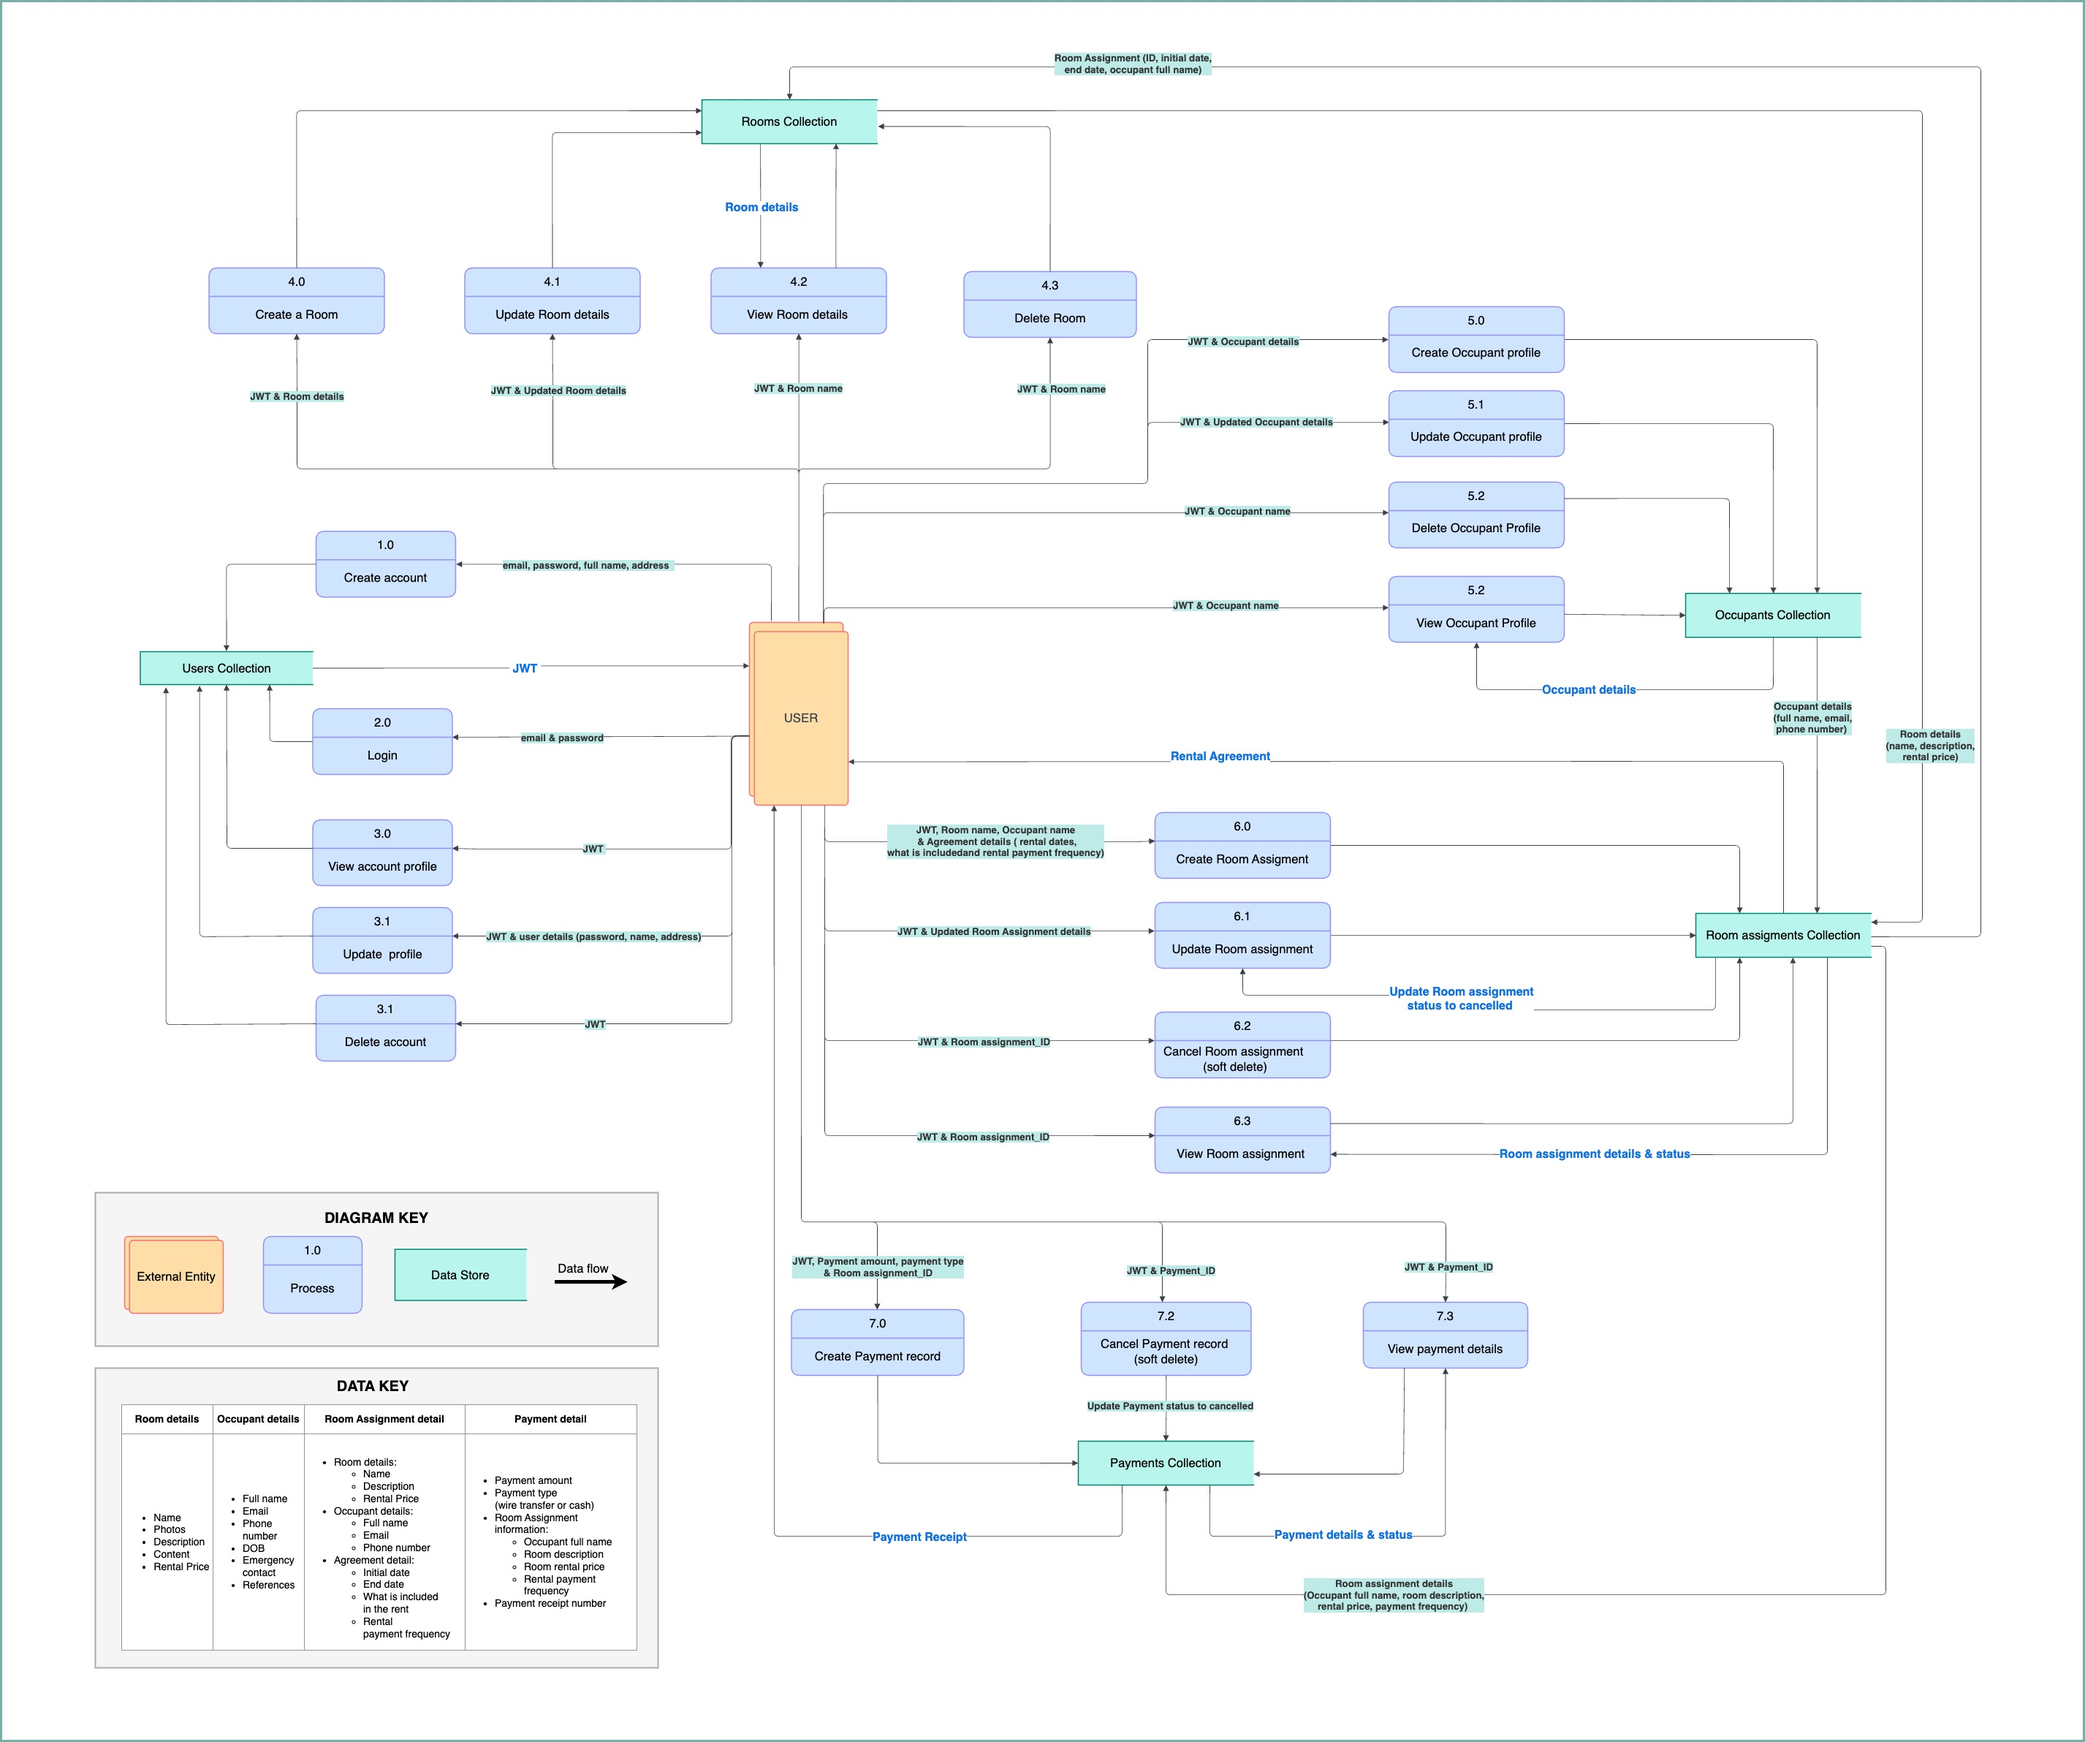
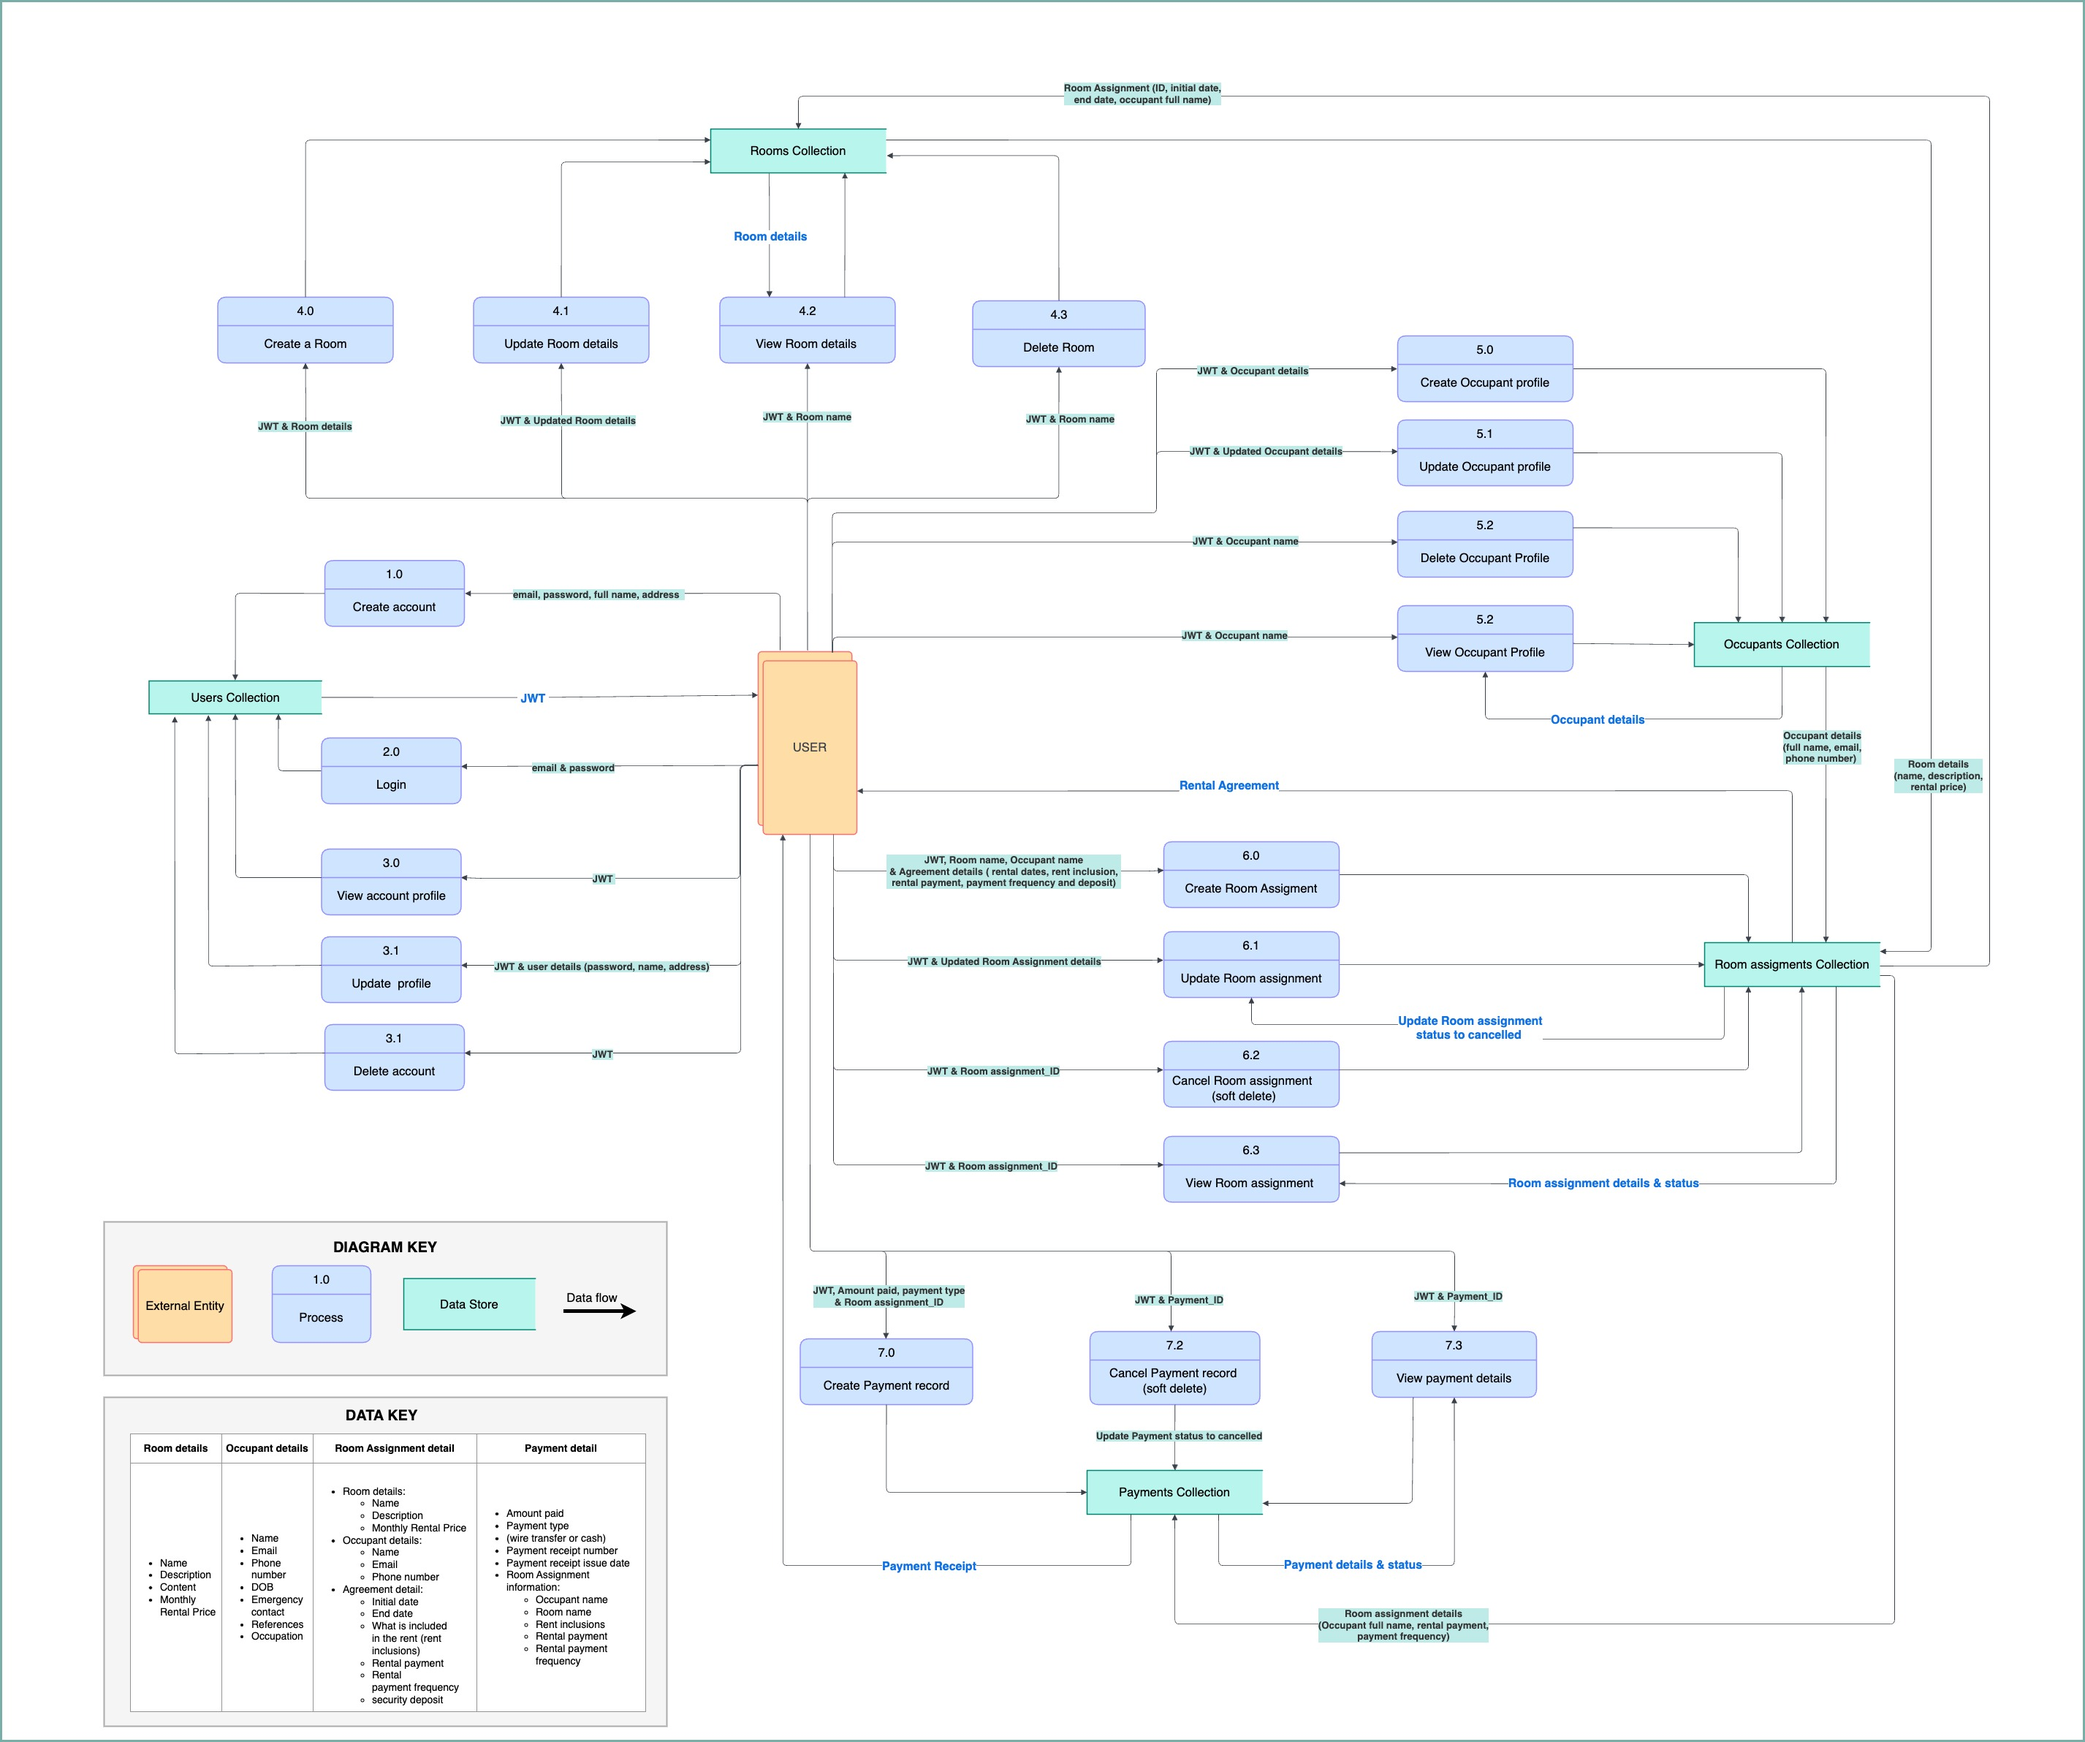
docs: Add payload examples

diff --git a/README.md b/README.md
@@ -312,7 +312,6 @@ AS A Lister,
         SO THAT I only have accurate information about the payments I have received.
 ```
 
-
 ## Data Flow Diagrams
 
 
@@ -325,6 +324,156 @@ AS A Lister,
 ***Detail Data Flow Diagram***
 
 ![DFD-SubClub](./readme-img/DFD-SubClub.jpeg)
+
+
+### Payload examples
+
+#### User document
+```js
+{
+  _id: ObjectId("5f8b55632a1a9a001dcd4db1"),
+  name: "John Smith",
+  email: "john.smith@gmail.com",
+  password: "hashed_password", 
+  phone_number: "+434111222",
+  address: {
+    street: "Main Street",
+    city: "Melbourne",
+    post_code: "12345",
+    state: "Victoria"
+  }
+}
+```
+
+
+#### Room document
+
+```js
+{
+  _id: ObjectId("5f9e8bb66382a07d7c218d5a"),
+  name: "The Sun's Kiss",
+  monthly_rental_price: 200.00,
+  description: "Large and bright room of 5x4 meters. Wooden floor, freshly painted walls, spacious wardrobe, and two large windows overlooking the garden, allowing the entry of morning light.",
+  content: [
+    "Mini-split system with heating and cooling",
+    "2 sets of blackout curtains",
+    "Desk and desk chair",
+    "Bed frame and mattress",
+    "New full-length mirror",
+    "Brand new 190 x 220 cm beige-colored rug"
+  ]
+}
+```
+
+#### Occupant document
+
+```js
+{
+  _id: ObjectId("7a8b9c632a1a9a001dcd4333"),
+  name: "Isabelle Thompson",
+  email: "isa.thompson@example.com", 
+  phone_number: "+678912345",
+  dob: ISODate("1990-01-01"), // Date Of Birth
+  occupation: "student",
+  emergency_contact: {
+    contact_person_name: "John Doe",
+    phone_number: "+483259384",
+    relationship: "brother",
+    email: "john.doe@example.com" 
+  },
+  references: {
+    reference_one: {
+      person_name: "Mr. Thomas Castello",
+      phone_number: "+455666777",
+      relation: "friend since childhood"
+    },
+    reference_two: {
+      person_name: "Miss. Jane Brown",
+      phone_number: "+434998811",
+      relation: "manager at her last job"
+    }
+  }
+}
+```
+
+
+#### Room Assigment document
+
+```js
+{
+    _id: ObjectId("5f9e8bb66382a07d7c218d5b"),  
+
+    // Room details
+    room: {
+        room_id: ObjectId("5f9e8bb66382a07d7c218d5a"),  // Reference to the Room document
+        name: "The sun's kiss",
+        monthly_rental_price: 800.00,
+    },
+
+    // Occupant details
+    occupant: {
+        occupant_id: ObjectId("7a8b9c632a1a9a001dcd4333"),  // Reference to the Occupant document
+        name: "Isabelle Thompson",
+        email: "isa_thompson",
+        phone_number: "+678912345",
+    },
+
+    // Agreement details
+    agreement: {
+        start_date: ISODate("2023-011-01T00:00:00Z"),  
+        end_date: ISODate("2024-03-31T23:59:59Z"),  
+        rent_inclusions:[
+            "furnish room",
+            "utilities",
+            "parking",
+            "laundry service"
+            "share kitchen area",
+            "share living space", 
+            "share bathroom" 
+        ],
+        rental_payment:184.58,
+        rental_payment_frequency: "Weekly",
+        security_deposit: 800.00,
+    },
+    rental_agreement_status: "Active"
+}
+
+```
+
+#### Payment document
+```js
+{
+    _id: ObjectId("7f8e9cb66345a07d7c218d7c"),  
+    payment_type: "Cash", 
+    amount_paid: 184.58,
+    payment_receipt: {
+        receipt_number: "REC123456", 
+        receipt_issue_date: ISODate("2023-11-27T18:59:59Z"),  
+    }
+
+    // Room Assignment information
+    room_assignment: {
+        room_assignment_id: ObjectId("5f9e8bb66382a07d7c218d5b"),  // Reference to the Room Assignment document
+        occupant_name: "Isabelle Thompson",
+        room_name: "The Sun's Kiss",
+        rent_inclusions: [
+            "furnish room",
+            "utilities",
+            "parking",
+            "laundry service",
+            "share kitchen area",
+            "share living space",
+            "share bathroom"
+        ],
+        rental_payment: 184.58,
+        rental_payment_frequency: "Weekly",
+    },
+    receipt_status: "Active"
+}
+
+```
+
+
 
 
 
